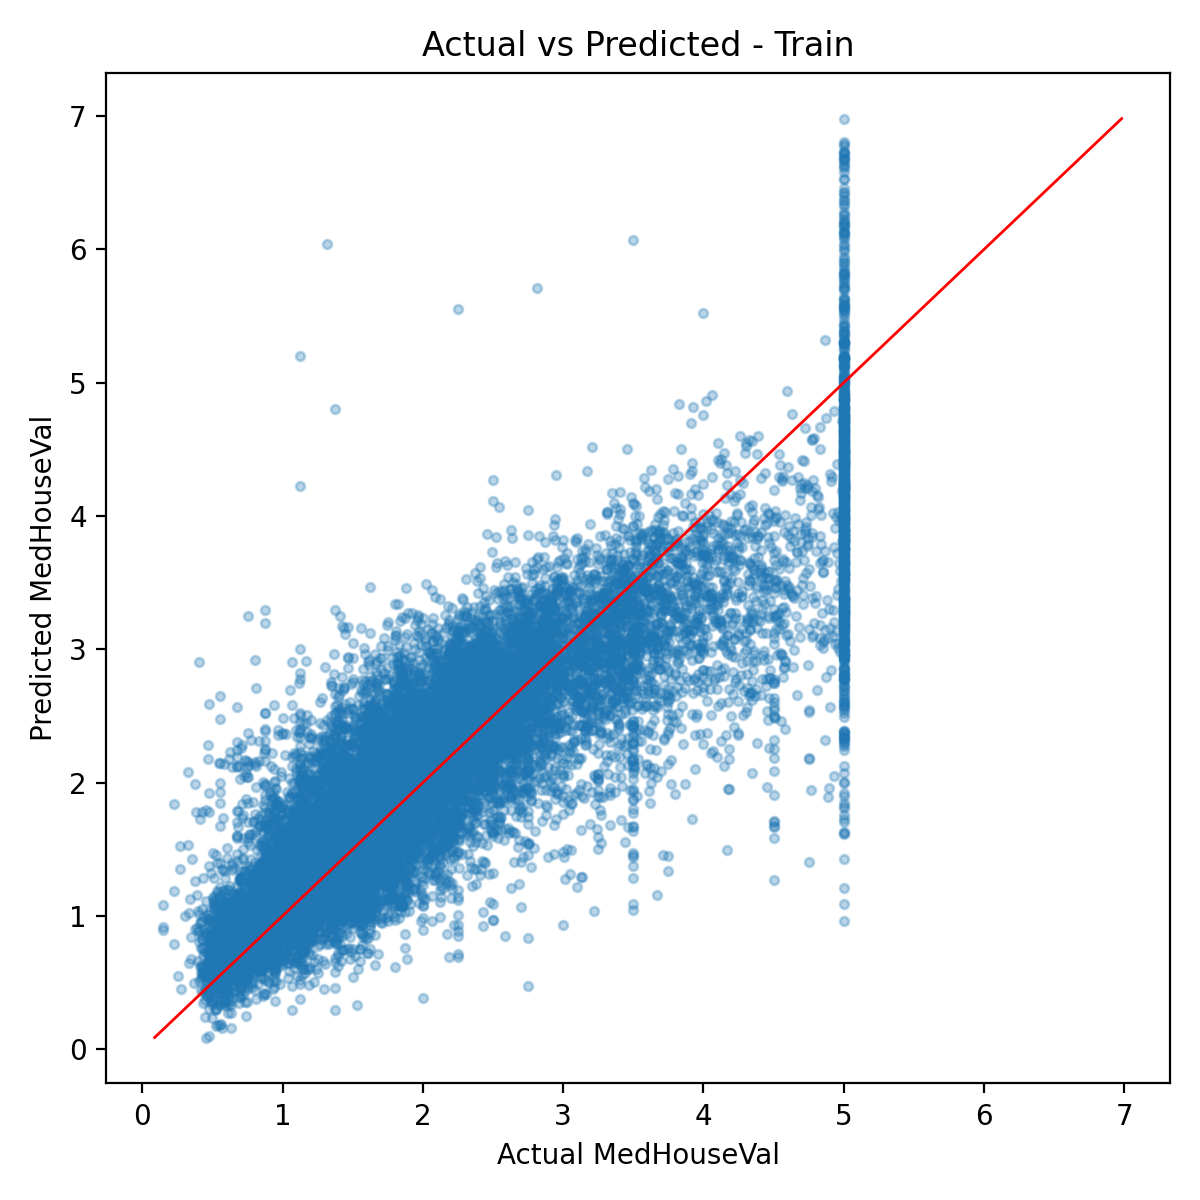
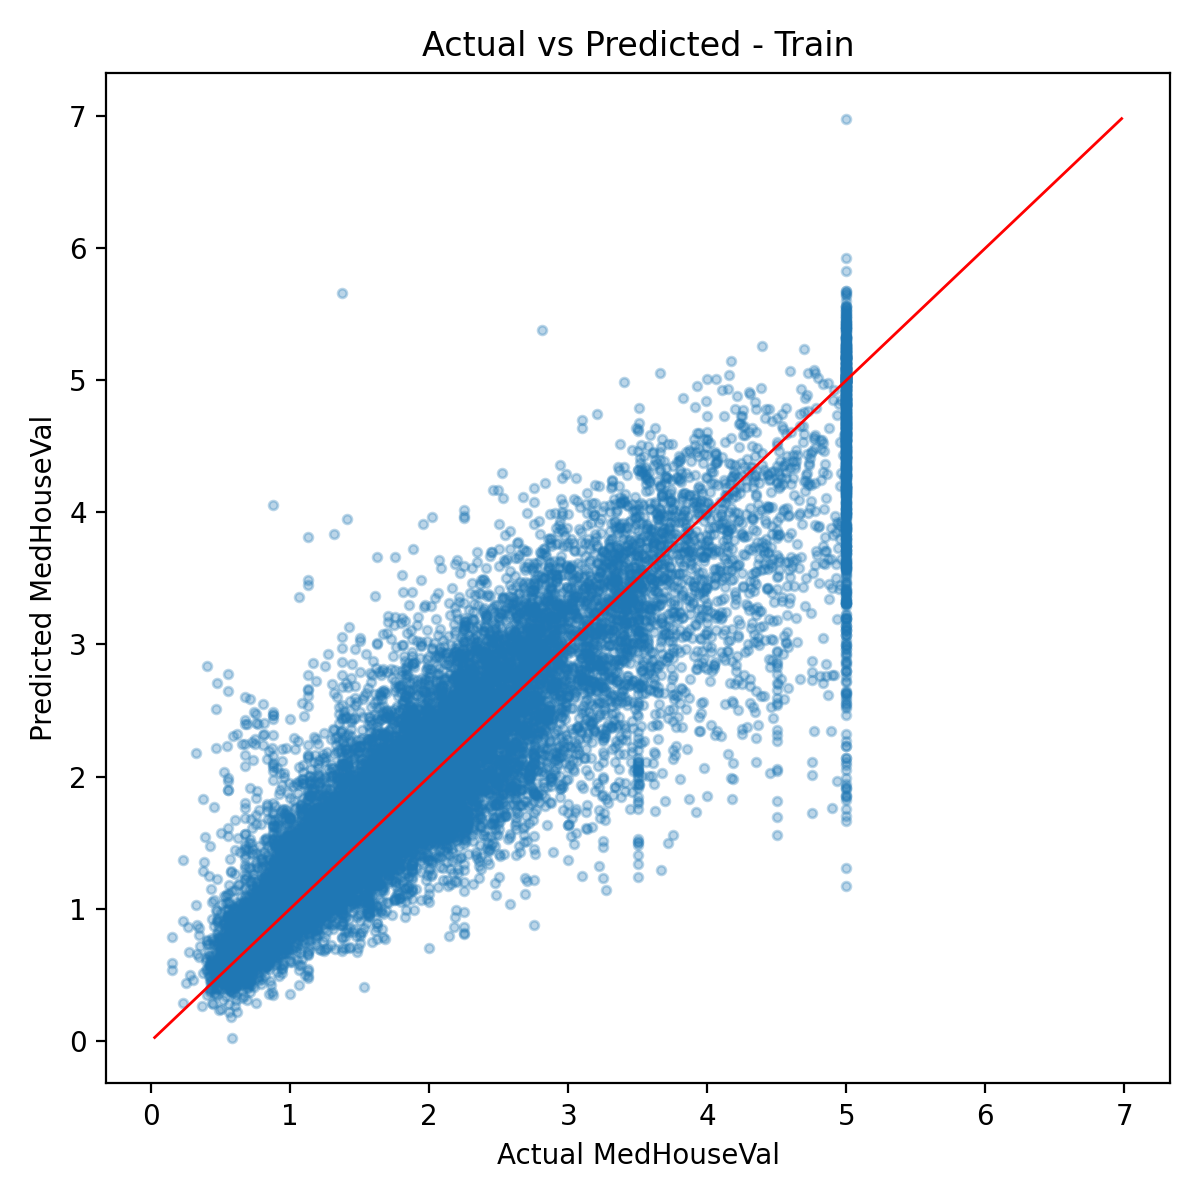
Tune MLP hyperparameters and regenerate prediction plots
Increased MLP capacity and training stability, added regularization, adjusted batch size, and regenerated train and test actual vs predicted plots.

diff --git a/src/ds_pipeline.py b/src/ds_pipeline.py
@@ -48,9 +48,11 @@ X_test_scaled  = scaler.transform(X_test)
 # train MLPRegressor
 mlp = MLPRegressor(
     random_state=42,
-    hidden_layer_sizes=(10, 5),   # custom hyperparameter
-    max_iter=200,
-    batch_size=1000,
+    hidden_layer_sizes=(64, 32), # retuning capacity
+    alpha=1e-4, # regularization
+    learning_rate_init=1e-3, # step size
+    max_iter=1000, # allowing for more training
+    batch_size=256,
     activation="relu",
     validation_fraction=0.2,
     early_stopping=True
@@ -68,6 +70,9 @@ print("test  R2:", r2_score(y_test, y_pred_test))
 print("test  MAE:", mean_absolute_error(y_test, y_pred_test))
 
 # scatter + reference line
+import os
+os.makedirs("figures", exist_ok=True)
+
 def scatter_with_reference_save(y_true, y_pred, title, out_path):
     plt.figure(figsize=(6,6))
     plt.scatter(y_true, y_pred, alpha=0.3, s=10)
